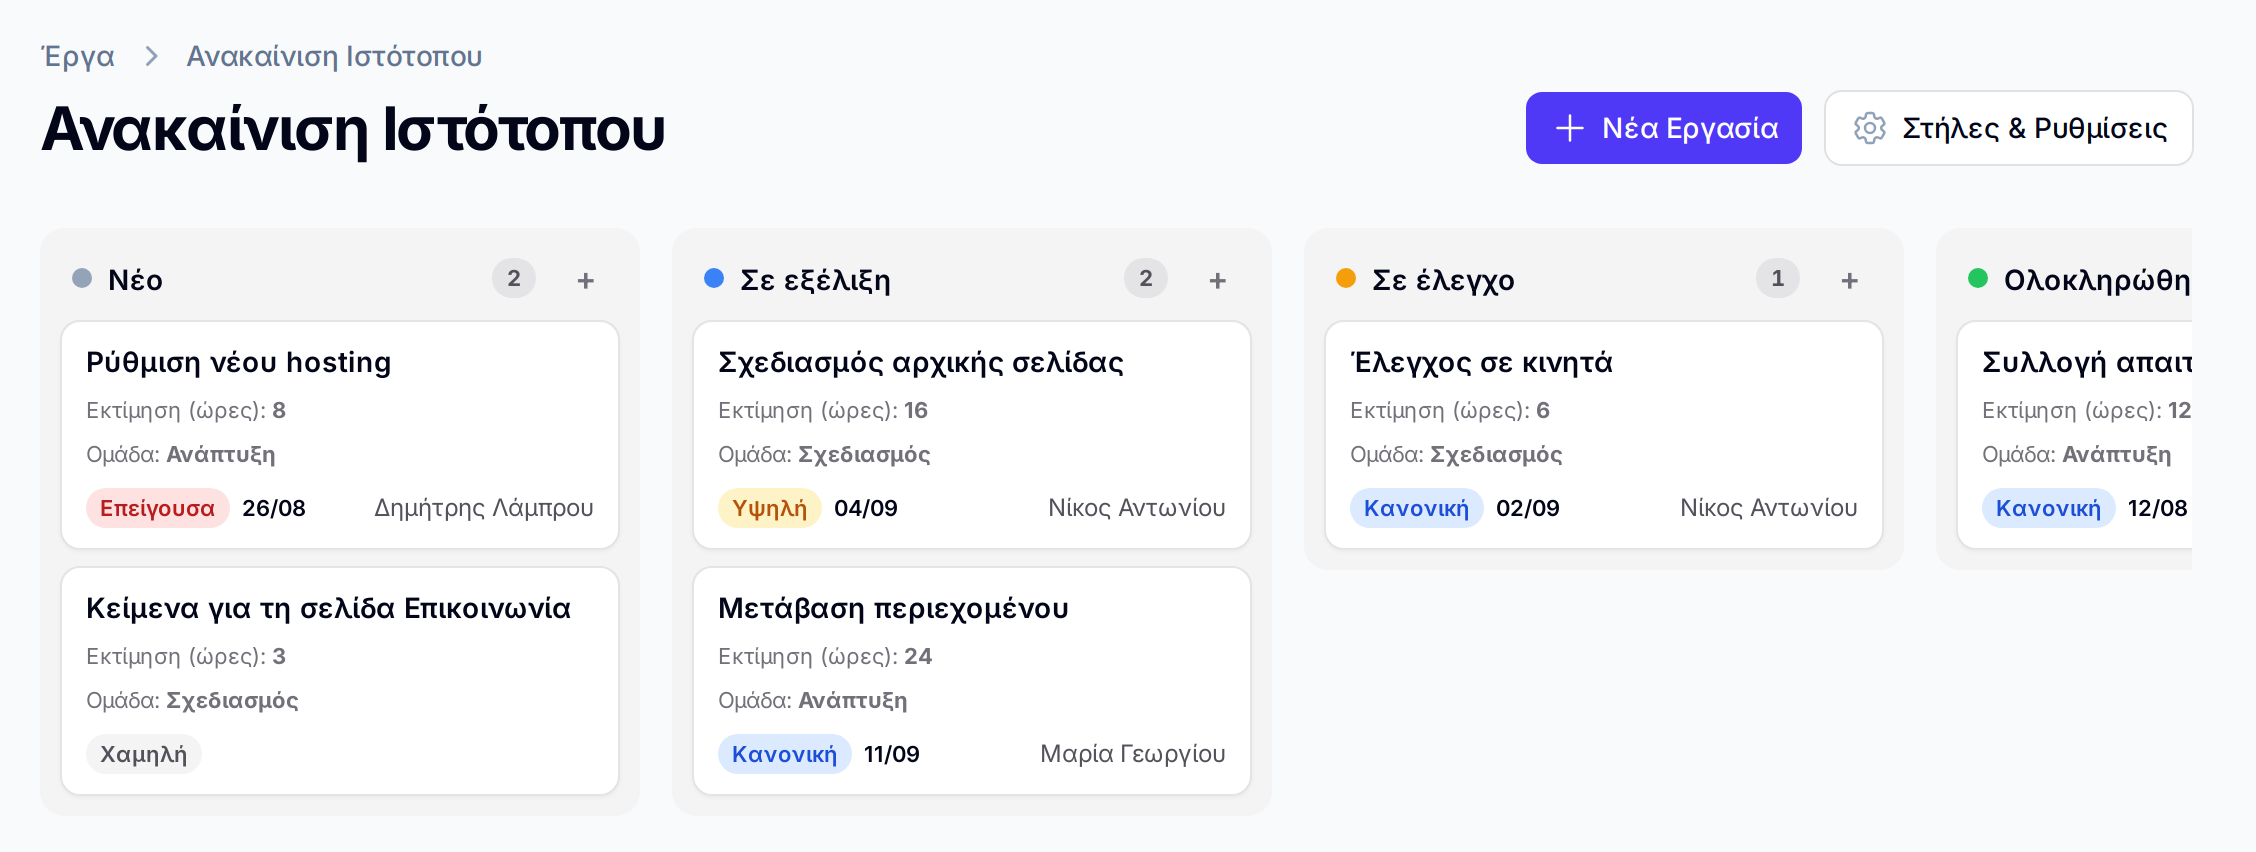
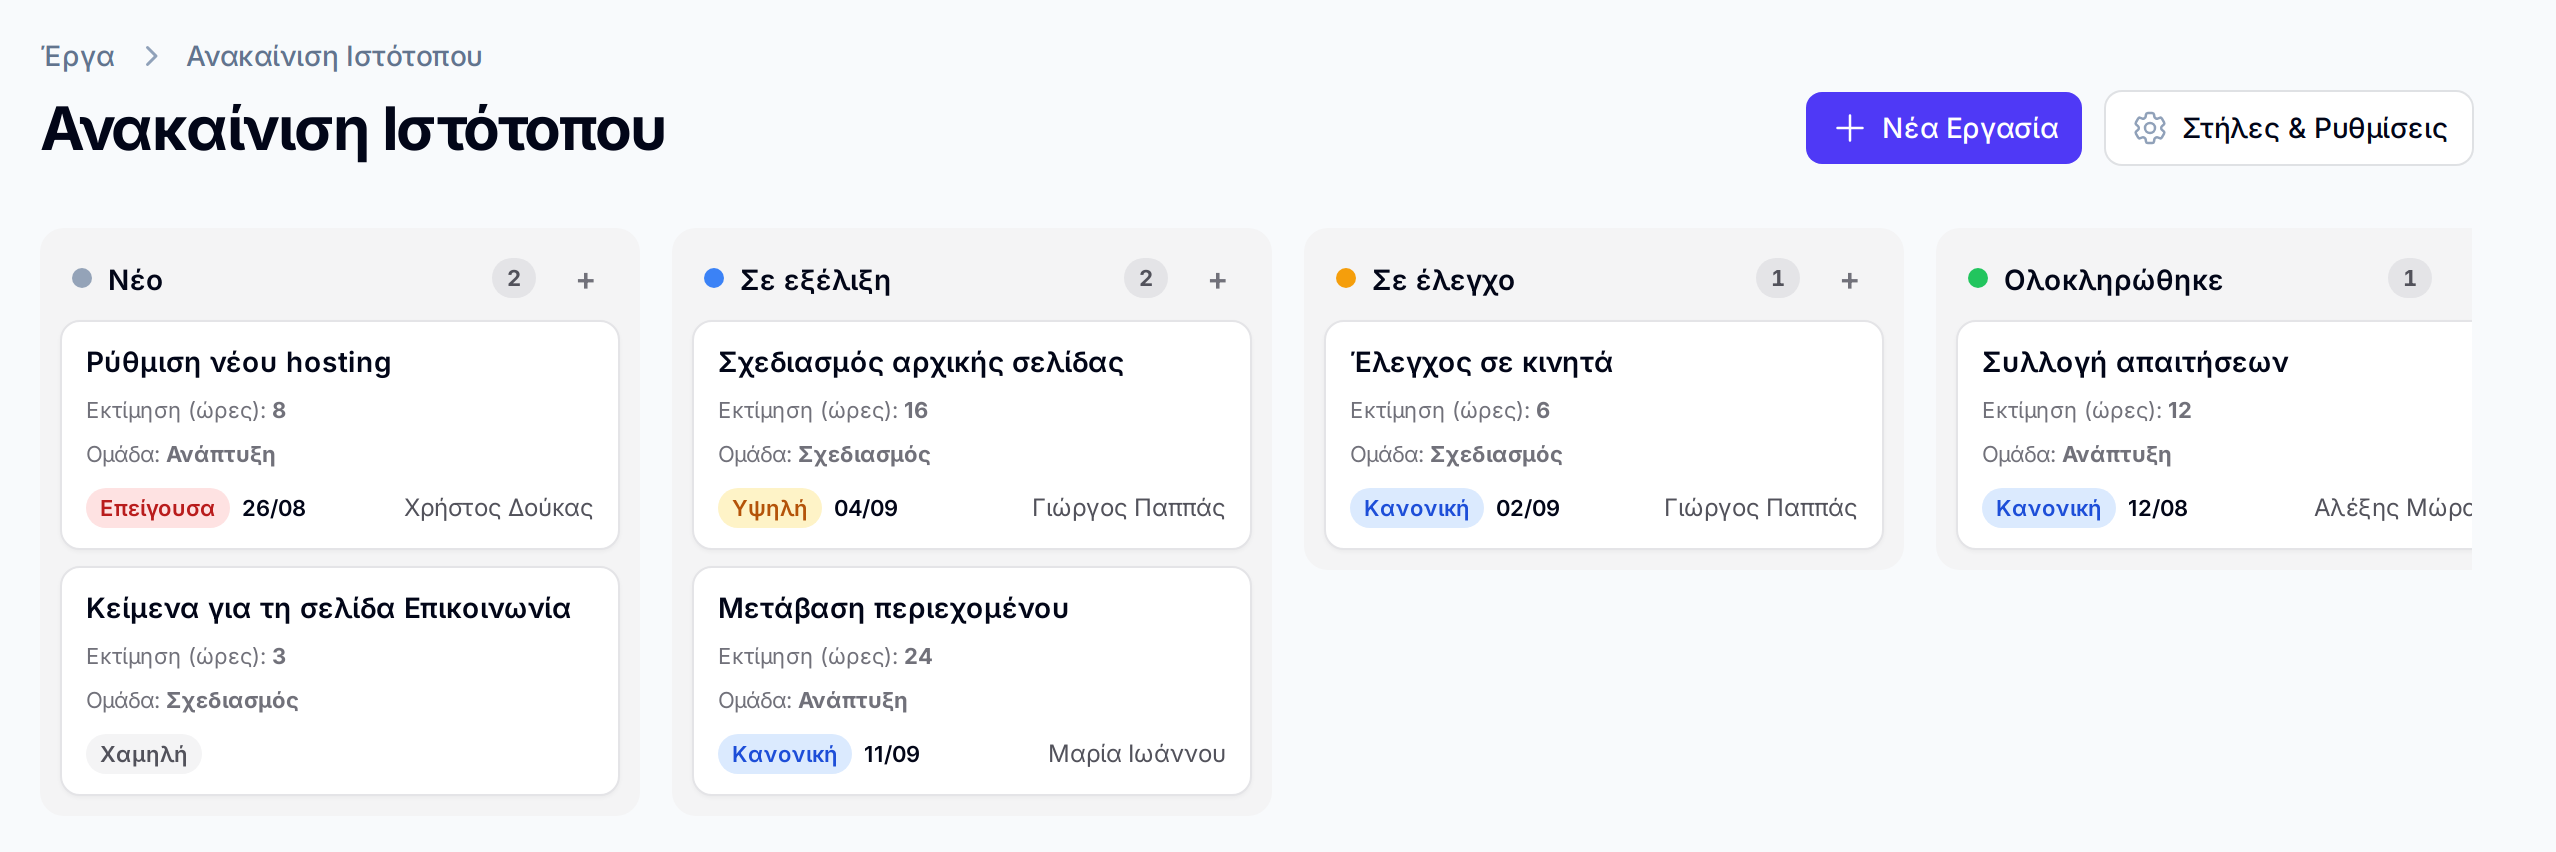
Show the landing screenshots in the reader's language
The page switched language but its two product shots did not, so an
English visitor got English copy wrapped around a Greek interface.

Each shot now exists twice and welcome.blade.php picks by locale. Both
are framed by measuring the DOM — the last balance card sets the width,
the tallest column sets the height — rather than by numbers that happened
to look right once, so the pairs come out identical in size and switching
language shifts nothing on the page.

The English versions needed an English company behind them, not just an
English interface: leave type names, column names, project names and
people are company data, so a Greek-seeded demo would have shown "Annual
Leave" as Κανονική Άδεια no matter what language the panel was in.

The Greek pair was re-taken at the same time. The old dashboard shot
predated the Task Manager — its sidebar had no Projects in it at all.

Fixed along the way, and it affected the whole application rather than
the landing page: navigation group names were static properties, which
PHP evaluates when the class loads. That froze them into whichever
language was active first, so the panel showed Άδειες / Έργα / Εταιρεία
in English. They resolve per request now.

diff --git a/resources/views/welcome.blade.php b/resources/views/welcome.blade.php
@@ -181,6 +181,13 @@
         <circle cx="50" cy="16" r="4.5" fill="#fbbf24"/></svg>';
 @endphp
 
+@php
+    // The product shots are captures of a real interface, so each language
+    // needs its own. Same framing and same dimensions in both, so switching
+    // language does not shift the layout.
+    $shot = fn (string $name) => asset('img/landing/'.$name.(app()->getLocale() === 'en' ? '-en' : '').'.png');
+@endphp
+
 <header>
     <div class="wrap nav">
         <a href="#" class="brand">
@@ -229,9 +236,9 @@
         <div class="hero-visual">
             <figure class="shot" style="margin:0;">
                 <div class="shot-bar"><span></span><span></span><span></span></div>
-                <img src="{{ asset('img/landing/app-dashboard.png') }}"
+                <img src="{{ $shot('app-dashboard') }}"
                      alt="{{ __('Ο πίνακας ελέγχου του CvTech: υπόλοιπα αδειών ανά τύπο και ημερολόγιο ομάδας.') }}"
-                     loading="lazy" width="1150" height="700">
+                     loading="lazy" width="1600" height="786">
             </figure>
         </div>
     </div>
@@ -364,9 +371,9 @@
 
         <figure class="shot" style="margin: 0;">
             <div class="shot-bar"><span></span><span></span><span></span></div>
-            <img src="{{ asset('img/landing/kanban-board.png') }}"
+            <img src="{{ $shot('kanban-board') }}"
                  alt="{{ __('Πίνακας έργου στο CvTech: εργασίες σε στήλες, με προτεραιότητα, προθεσμία και ανάθεση σε κάθε κάρτα.') }}"
-                 loading="lazy" width="1128" height="426">
+                 loading="lazy" width="1278" height="426">
         </figure>
     </div>
 </section>

diff --git a/app/Filament/Resources/LeaveRequests/LeaveRequestResource.php b/app/Filament/Resources/LeaveRequests/LeaveRequestResource.php
@@ -17,15 +17,12 @@ use Filament\Support\Icons\Heroicon;
 use Filament\Tables\Table;
 use Illuminate\Database\Eloquent\Builder;
 use Illuminate\Database\Eloquent\Model;
-use UnitEnum;
 
 class LeaveRequestResource extends Resource
 {
     protected static ?string $model = LeaveRequest::class;
 
     protected static string|BackedEnum|null $navigationIcon = Heroicon::OutlinedRectangleStack;
-
-    protected static string|UnitEnum|null $navigationGroup = 'Άδειες';
 
     protected static ?int $navigationSort = 1;
 
@@ -35,6 +32,16 @@ class LeaveRequestResource extends Resource
      * below, so Filament's automatic tenant-ownership scoping is disabled.
      */
     protected static bool $isScopedToTenant = false;
+
+    /**
+     * Resolved per request rather than set as a static property: a
+     * property is evaluated when the class loads, which freezes the
+     * group name into whichever language happened to be active first.
+     */
+    public static function getNavigationGroup(): ?string
+    {
+        return __('Άδειες');
+    }
 
     public static function getNavigationLabel(): string
     {

diff --git a/app/Filament/Resources/CustomFields/CustomFieldResource.php b/app/Filament/Resources/CustomFields/CustomFieldResource.php
@@ -14,7 +14,6 @@ use Filament\Support\Icons\Heroicon;
 use Filament\Tables\Table;
 use Illuminate\Database\Eloquent\Builder;
 use Illuminate\Database\Eloquent\Model;
-use UnitEnum;
 
 /**
  * The company's own fields — the ones that apply to every board.
@@ -29,9 +28,17 @@ class CustomFieldResource extends Resource
 
     protected static string|BackedEnum|null $navigationIcon = Heroicon::OutlinedTag;
 
-    protected static string|UnitEnum|null $navigationGroup = 'Έργα';
-
     protected static ?int $navigationSort = 3;
+
+    /**
+     * Resolved per request rather than set as a static property: a
+     * property is evaluated when the class loads, which freezes the
+     * group name into whichever language happened to be active first.
+     */
+    public static function getNavigationGroup(): ?string
+    {
+        return __('Έργα');
+    }
 
     public static function getNavigationLabel(): string
     {

diff --git a/app/Filament/Resources/LeaveTypes/LeaveTypeResource.php b/app/Filament/Resources/LeaveTypes/LeaveTypeResource.php
@@ -15,7 +15,6 @@ use Filament\Resources\Resource;
 use Filament\Schemas\Schema;
 use Filament\Support\Icons\Heroicon;
 use Filament\Tables\Table;
-use UnitEnum;
 
 class LeaveTypeResource extends Resource
 {
@@ -23,9 +22,17 @@ class LeaveTypeResource extends Resource
 
     protected static string|BackedEnum|null $navigationIcon = Heroicon::OutlinedRectangleStack;
 
-    protected static string|UnitEnum|null $navigationGroup = 'Άδειες';
-
     protected static ?int $navigationSort = 2;
+
+    /**
+     * Resolved per request rather than set as a static property: a
+     * property is evaluated when the class loads, which freezes the
+     * group name into whichever language happened to be active first.
+     */
+    public static function getNavigationGroup(): ?string
+    {
+        return __('Άδειες');
+    }
 
     public static function getNavigationLabel(): string
     {

diff --git a/app/Filament/Resources/Tasks/TaskResource.php b/app/Filament/Resources/Tasks/TaskResource.php
@@ -19,7 +19,6 @@ use Filament\Support\Icons\Heroicon;
 use Filament\Tables\Table;
 use Illuminate\Database\Eloquent\Builder;
 use Illuminate\Database\Eloquent\Model;
-use UnitEnum;
 
 class TaskResource extends Resource
 {
@@ -27,9 +26,17 @@ class TaskResource extends Resource
 
     protected static string|BackedEnum|null $navigationIcon = Heroicon::OutlinedCheckCircle;
 
-    protected static string|UnitEnum|null $navigationGroup = 'Έργα';
-
     protected static ?int $navigationSort = 2;
+
+    /**
+     * Resolved per request rather than set as a static property: a
+     * property is evaluated when the class loads, which freezes the
+     * group name into whichever language happened to be active first.
+     */
+    public static function getNavigationGroup(): ?string
+    {
+        return __('Έργα');
+    }
 
     public static function getNavigationLabel(): string
     {

diff --git a/app/Filament/Resources/Users/UserResource.php b/app/Filament/Resources/Users/UserResource.php
@@ -15,7 +15,6 @@ use Filament\Resources\Resource;
 use Filament\Schemas\Schema;
 use Filament\Support\Icons\Heroicon;
 use Filament\Tables\Table;
-use UnitEnum;
 
 class UserResource extends Resource
 {
@@ -23,9 +22,17 @@ class UserResource extends Resource
 
     protected static string|BackedEnum|null $navigationIcon = Heroicon::OutlinedRectangleStack;
 
-    protected static string|UnitEnum|null $navigationGroup = 'Εταιρεία';
-
     protected static ?int $navigationSort = 1;
+
+    /**
+     * Resolved per request rather than set as a static property: a
+     * property is evaluated when the class loads, which freezes the
+     * group name into whichever language happened to be active first.
+     */
+    public static function getNavigationGroup(): ?string
+    {
+        return __('Εταιρεία');
+    }
 
     public static function getNavigationLabel(): string
     {

diff --git a/app/Filament/Resources/Projects/ProjectResource.php b/app/Filament/Resources/Projects/ProjectResource.php
@@ -20,7 +20,6 @@ use Filament\Schemas\Schema;
 use Filament\Support\Icons\Heroicon;
 use Filament\Tables\Table;
 use Illuminate\Database\Eloquent\Model;
-use UnitEnum;
 
 use function Filament\Support\original_request;
 
@@ -30,9 +29,17 @@ class ProjectResource extends Resource
 
     protected static string|BackedEnum|null $navigationIcon = Heroicon::OutlinedFolder;
 
-    protected static string|UnitEnum|null $navigationGroup = 'Έργα';
-
     protected static ?int $navigationSort = 1;
+
+    /**
+     * Resolved per request rather than set as a static property: a
+     * property is evaluated when the class loads, which freezes the
+     * group name into whichever language happened to be active first.
+     */
+    public static function getNavigationGroup(): ?string
+    {
+        return __('Έργα');
+    }
 
     public static function getNavigationLabel(): string
     {

diff --git a/ROADMAP.md b/ROADMAP.md
@@ -312,11 +312,13 @@ MySQL 8, the calculation changes.
   feature changes — there's no automated check for staleness. The screenshots
   are taken against a throwaway database seeded for the purpose; note that it
   shares `cvleave_test` with the suite, so running tests midway wipes it.
-- **Landing page screenshots are Greek-only** — the page itself is translated
-  and carries its own EL/EN switcher, but the two product shots in it
-  (`app-dashboard.png`, `kanban-board.png`) are captures of a Greek interface
-  and stay Greek on the English page. Fixing it means a second capture per
-  image and swapping by locale, which is real maintenance for two files.
+- **Landing page screenshots** — done. Each shot exists twice, captured from
+  a Greek and an English demo company, and `welcome.blade.php` picks by
+  locale. Both are framed by measuring the DOM rather than by fixed numbers,
+  so the pairs come out identical in size and switching language shifts
+  nothing. The seeds live outside the repo; re-taking them means seeding a
+  company whose *data* is in the target language, since leave types, column
+  names and project names are company data rather than interface text.
 
 ## Status
 
